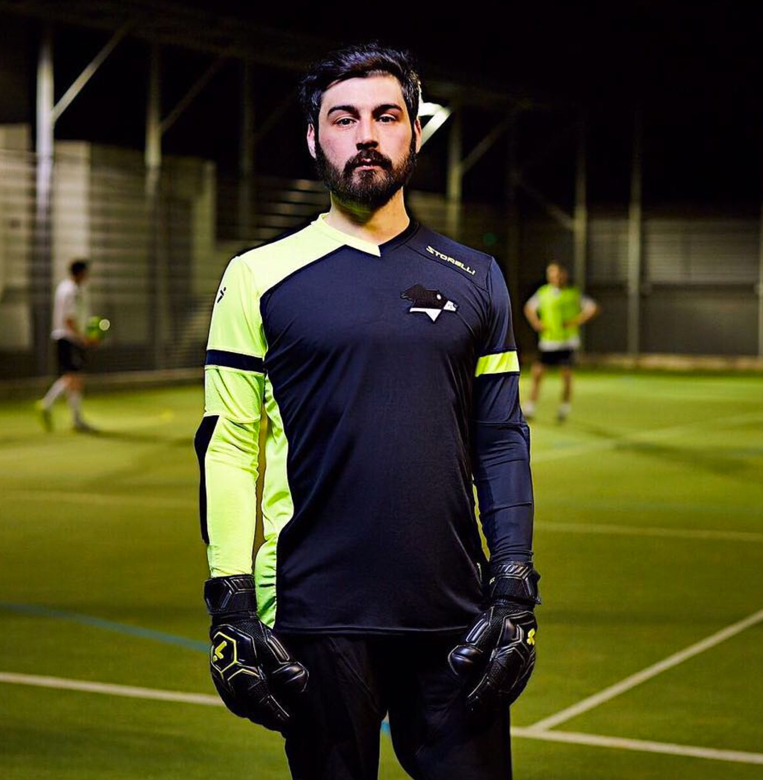
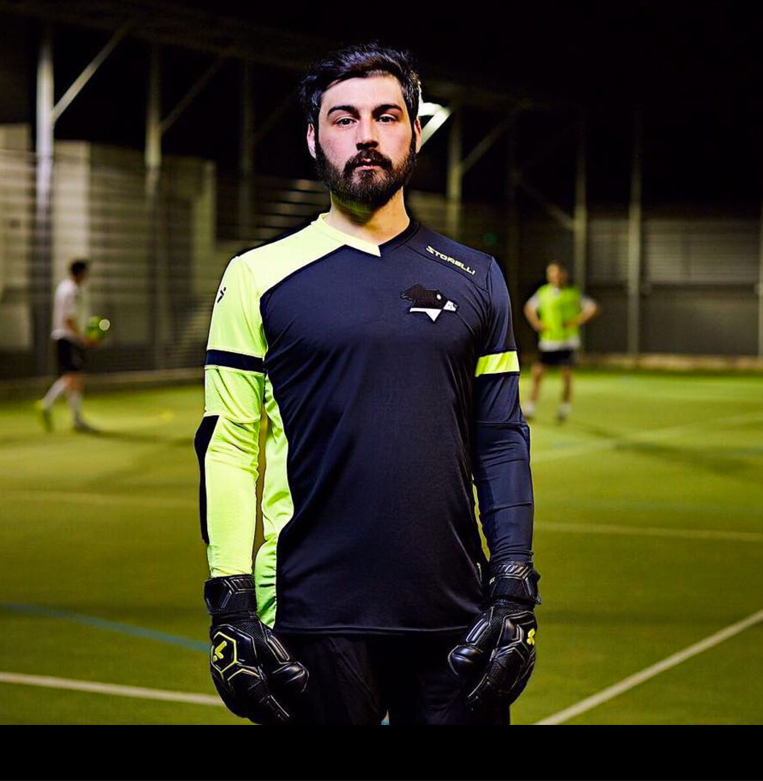
Update of images and insta
Updated images with black tint and added instgram plugin

diff --git a/collaborations.html b/collaborations.html
@@ -23,7 +23,7 @@
 						<span class="icon-bar"></span>
 						<span class="icon-bar"></span>
 					</button>
-					<a class="navbar-brand" href="#"><img src="images/logo.png" alt="Pickles FC logo">Pickles FC</a>
+					<a class="navbar-brand" href="#"><img src="images/logo.svg" width="50" height="50" alt="Pickles FC logo">Pickles FC</a>
 				</div>
 				<div id="navbar" class="collapse navbar-collapse">
           			<ul class="nav navbar-nav">
@@ -100,14 +100,14 @@
       				<h2>Your details have been sent successfully!</h2>
       				<p>We will be in touch shortly via email.</p>
     			</div>
-
-
-      			<div class="instagram text-center">
-     				<h2>#picklesfc</h2>
-     			</div>
      		</div>
-    	</div>
+     	</div>
 	</div>
+	<div class="instagram">
+     	<h2 class="text-center">#picklesmagazine</h2>
+     	<script src="//apps.elfsight.com/p/platform.js" defer></script>
+		<div class="elfsight-app-276db0d4-25a2-4a5e-8a72-30da22fe3732"></div>
+     </div>
 
 	</body>
 

diff --git a/css/website-css.css b/css/website-css.css
@@ -121,6 +121,10 @@
 	padding-bottom: 40px;
 }
 
+.instagram h2 {
+	padding-bottom: 20px;
+}
+
 .theplayers2 {
 	padding-top: 30px;
 }
@@ -129,6 +133,16 @@
 	padding-top: 80px;
 }
 
+.mainprofile {
+	background-image: url('../images/mainprofile_image.jpg');
+	min-height: 789px;
+	background-repeat: no-repeat;
+}
+
+h3 {
+	position: relative;
+	color: #ffffff;
+}
 
 div.vertical-container {
     height: 570px;
@@ -277,7 +291,7 @@ button.enterDetails img:hover {
 }
 
 input.form-control:focus {
-  border-color: #000000;
+  border-color: #7DC42E;
   box-shadow: none;
 }
 
@@ -301,6 +315,12 @@ input.form-control:focus {
 	color: #000000;
 	border-bottom: none;
 	font-size: 16px;
+  	transition: color 0.5s;
+  	text-decoration: none;
+}
+
+.btn-secondary a:hover {
+	color: #7DC42E;
 }
 
 

diff --git a/theplayers.html b/theplayers.html
@@ -40,8 +40,8 @@
 
 	<div class="container">
 		<div class="theplayers row">
-     		<div class='col-sm-8'>
-        		<image src="images/mainprofile_image.jpg" alt="mainprofile_image.jpg" class="img-responsive center-block">
+     		<div class='mainprofile col-sm-8'>
+     			<h3>Alex Stewart</h3>
         	</div>
 
         	<div class='col-sm-4'>
@@ -68,11 +68,12 @@
         	</div>
 		</div>
 
-        <div class='col-sm-12'>
-        	<div class="instagram text-center">
-     			<h2>#picklesfc</h2>
-     		</div>
+        <div class="instagram">
+     		<h2 class="text-center">#picklesmagazine</h2>
+     		<script src="//apps.elfsight.com/p/platform.js" defer></script>
+			<div class="elfsight-app-276db0d4-25a2-4a5e-8a72-30da22fe3732"></div>
      	</div>
+
 	</div>
 
 	</body>

diff --git a/collaborations_picklesmeetsfbb.html b/collaborations_picklesmeetsfbb.html
@@ -108,13 +108,15 @@
       				<h2>Your details have been sent successfully!</h2>
       				<p>We will be in touch shortly via email.</p>
     			</div>
-
-
-      			<div class="instagram text-center">
-     				<h2>#picklesfc</h2>
-     			</div>
      		</div>
-	</div>
+
+     </div>
+
+     <div class="instagram">
+     	<h2 class="text-center">#picklesmagazine</h2>
+     	<script src="//apps.elfsight.com/p/platform.js" defer></script>
+		<div class="elfsight-app-276db0d4-25a2-4a5e-8a72-30da22fe3732"></div>
+     </div>
 
 	</body>
 

diff --git a/theclub.html b/theclub.html
@@ -142,12 +142,13 @@
       		<h2>Your details have been sent successfully!</h2>
       		<p>You will recieve an email shortly with details about our next match.</p>
     	</div>
-
-
-     	<div class="instagram text-center">
-     		<h2>#picklesfc</h2>
-     	</div>
      </div>
+
+     <div class="instagram">
+     	<h2 class="text-center">#picklesmagazine</h2>
+     	<script src="//apps.elfsight.com/p/platform.js" defer></script>
+		<div class="elfsight-app-276db0d4-25a2-4a5e-8a72-30da22fe3732"></div>
+	</div>
 
 </section>
 

diff --git a/js/picklesfc.js b/js/picklesfc.js
@@ -8,7 +8,6 @@ $(document).ready(function(){
   		$(".success").show();
 	});
 
-
 	$(".success").hide();
 	$("form").submit(function(e) {
     	e.preventDefault();
